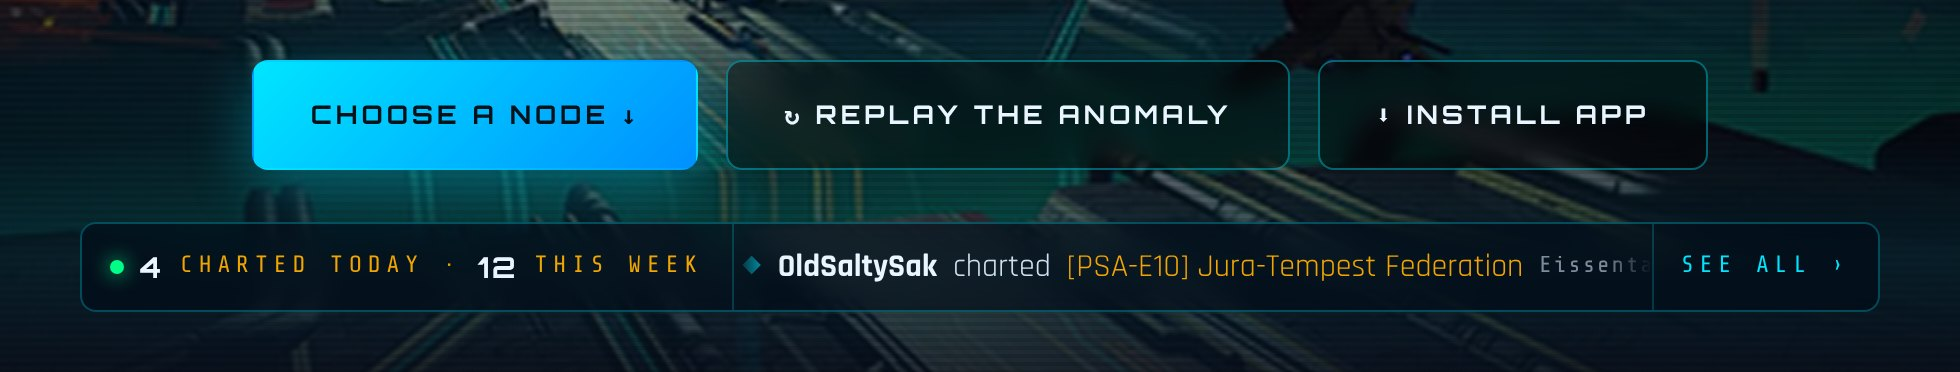
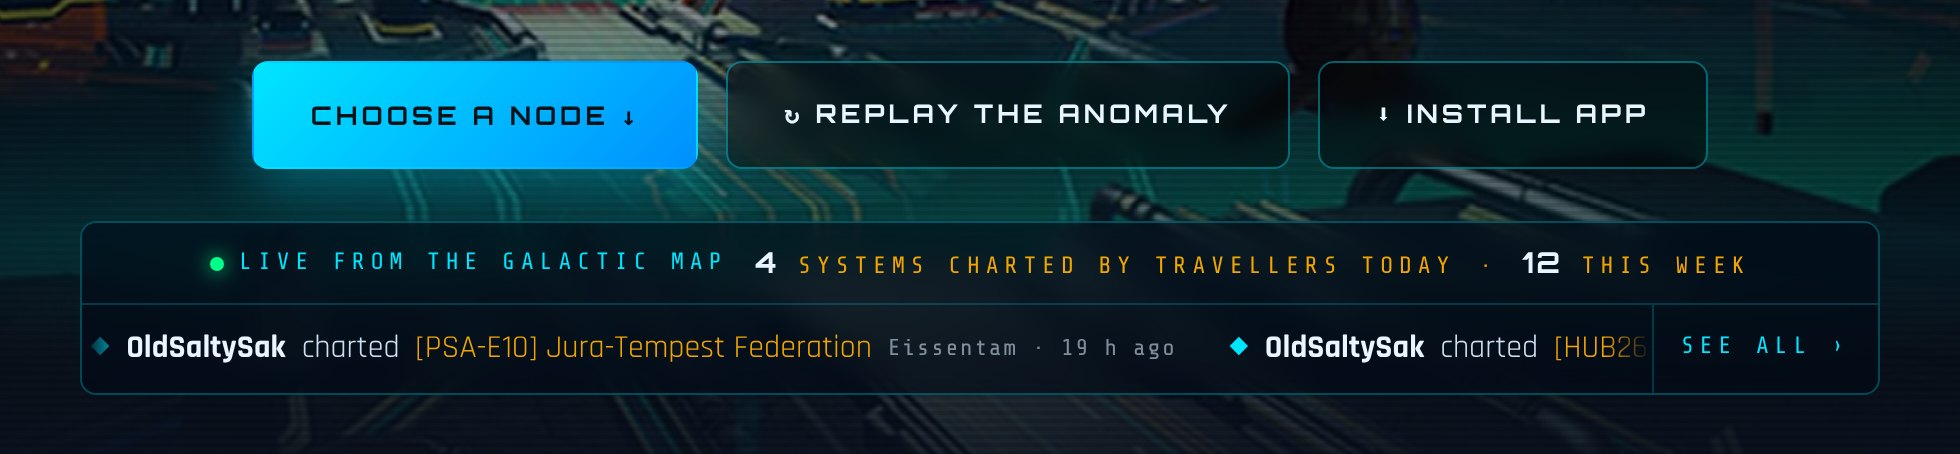
Ticker: say what's being counted ("Live from the Galactic Map · 4 systems charted by travellers today")
New visitors couldn't tell what "4 charted today" meant. The ticker now has a heading, LIVE FROM THE GALACTIC MAP, and the counts read "N systems charted by travellers today · N this week". On phones each count sits on its own line so nothing splits. README + screenshot updated.

Claude-Session: https://claude.ai/code/session_01RZyJje56RMWakjqPGsWmZq

diff --git a/ticker.css b/ticker.css
@@ -1,13 +1,17 @@
 /* No Man's Sky Hub — "Recently charted" ticker under the hero buttons (2026-10-17).
    Live from the Galactic Map. Uses the Hub's own tokens. See ticker.js. */
-.tick{width:min(900px,100%);display:grid;grid-template-columns:auto minmax(0,1fr) auto;align-items:stretch;
+.tick{width:min(900px,100%);display:grid;grid-template-columns:minmax(0,1fr) auto;align-items:stretch;
   margin-top:6px;background:rgba(0,10,22,.62);-webkit-backdrop-filter:blur(8px);backdrop-filter:blur(8px);
   border:1px solid rgba(0,229,255,.28);border-radius:8px;overflow:hidden;text-align:left}
 .tick[hidden]{display:none}
-.tick-lab{display:flex;align-items:center;gap:8px;padding:9px 14px;border-right:1px solid rgba(0,229,255,.2);
-  font-family:var(--f-mono);font-size:.74rem;letter-spacing:3px;color:var(--gold);white-space:nowrap}
-.tick-lab b{font-family:var(--f-display);font-weight:700;font-size:.9rem;letter-spacing:.1em;color:var(--white)}
-.tick-lab .dot{width:7px;height:7px}
+.tick-lab{grid-column:1/-1;display:flex;flex-wrap:wrap;justify-content:center;align-items:center;gap:4px 14px;
+  padding:8px 14px;border-bottom:1px solid rgba(0,229,255,.2);text-align:center;
+  font-family:var(--f-mono);font-size:.74rem;letter-spacing:3px;color:var(--gold)}
+.tl-k{display:inline-flex;align-items:center;gap:8px;color:var(--cyan)}
+.tl-k .dot{width:7px;height:7px}
+.tl-n{display:inline-flex;flex-wrap:wrap;justify-content:center;align-items:baseline;gap:2px 12px}
+.tl-p{white-space:nowrap}
+.tl-n b{font-family:var(--f-display);font-weight:700;font-size:.9rem;letter-spacing:.1em;color:var(--white)}
 .tick-view{position:relative;overflow:hidden;min-width:0;
   -webkit-mask-image:linear-gradient(90deg,transparent,#000 24px,#000 calc(100% - 24px),transparent);
           mask-image:linear-gradient(90deg,transparent,#000 24px,#000 calc(100% - 24px),transparent)}
@@ -26,8 +30,9 @@
   font-family:var(--f-mono);font-size:.74rem;letter-spacing:3px;color:var(--cyan);text-decoration:none;white-space:nowrap}
 .tick-all:hover,.tick-all:focus-visible{background:rgba(0,229,255,.1);outline:none}
 @media (max-width:560px){
-  .tick{grid-template-columns:minmax(0,1fr) auto}
-  .tick-lab{grid-column:1/-1;border-right:0;border-bottom:1px solid rgba(0,229,255,.2);justify-content:center;padding:7px 10px;font-size:.68rem;letter-spacing:2px}
+  .tick-lab{flex-direction:column;padding:7px 10px;font-size:.68rem;letter-spacing:2px}
+  .tl-sep{display:none}
+  .tl-n{flex-direction:column;align-items:center}
   .tick-item{font-size:.95rem}
   .tick-all{padding:9px 11px;letter-spacing:2px}
 }

diff --git a/ticker.js b/ticker.js
@@ -43,11 +43,23 @@
     if (!week.length) { box.hidden = true; return; }
 
     box.textContent = '';
+    // say plainly what is being counted: a first-time visitor doesn't know the map takes edits
     var lab = el('div', 'tick-lab');
-    lab.appendChild(el('span', 'dot'));
-    if (today) { lab.appendChild(el('b', null, String(today))); lab.appendChild(document.createTextNode(' CHARTED TODAY · ')); }
-    lab.appendChild(el('b', null, String(week.length)));
-    lab.appendChild(document.createTextNode(' THIS WEEK'));
+    var k = el('span', 'tl-k');
+    k.appendChild(el('span', 'dot'));
+    k.appendChild(document.createTextNode('LIVE FROM THE GALACTIC MAP'));
+    lab.appendChild(k);
+    var n = el('span', 'tl-n');
+    var sys = function (v) { return v === 1 ? ' SYSTEM' : ' SYSTEMS'; };
+    var part = function (num, words) { var p = el('span', 'tl-p'); p.appendChild(el('b', null, String(num))); p.appendChild(document.createTextNode(words)); return p; };
+    if (today) {
+      n.appendChild(part(today, sys(today) + ' CHARTED BY TRAVELLERS TODAY'));
+      n.appendChild(el('span', 'tl-sep', '·'));
+      n.appendChild(part(week.length, ' THIS WEEK'));
+    } else {
+      n.appendChild(part(week.length, sys(week.length) + ' CHARTED BY TRAVELLERS THIS WEEK'));
+    }
+    lab.appendChild(n);
     box.appendChild(lab);
 
     var view = el('div', 'tick-view');
@@ -63,7 +75,7 @@
     all.href = MAP + '/?recent=1'; all.target = '_blank'; all.rel = 'noopener';
     all.setAttribute('aria-label', 'See all recently charted systems on the Galactic Map');
     box.appendChild(all);
-    box.setAttribute('aria-label', (today ? today + ' systems charted today, ' : '') + week.length + ' this week on the Galactic Map');
+    box.setAttribute('aria-label', 'Live from the Galactic Map: ' + (today ? today + ' systems charted by travellers today, ' : '') + week.length + ' this week');
     box.hidden = false;
 
     // a steady, readable speed (~40px a second) whatever the number of items

diff --git a/README.md b/README.md
@@ -18,11 +18,11 @@ The front door to a family of free, fan-made *No Man's Sky* tools. One cinematic
 - **Traveller ID.** Save your name, platform, home galaxy and (optionally) your NMS friend code once. The sister sites read it from a small cookie on `.nomansskyhub.app` (nothing goes to a server): ATLAS greets you by name, the Galactic Map opens in your home galaxy on a first visit, the Weather planet card carries your name, and the Theme Pack's portal wallpaper fills in your name, galaxy and friend code. "Forget me" removes it.
 - **Expedition alerts.** A link under the expedition card opens the Weather station's alert settings for new-expedition and ends-in-24-hours notifications.
 - **Galactic Alliances.** A short guide to alliances from the Cosmos update, with the details (founding one, joining one, the three-alliance limit, alliance teleporters and how the rankings work) behind a **How alliances work** button. A **live top 5** leaderboard (re-checked every 15 minutes while the page is open) (in-game rank, members, stations and 24-hour changes) sits above it, courtesy of [Voyager's Haven](https://havenmap.online) by [u/IAmThe-Ekimo-1920](https://www.reddit.com/user/IAmThe-Ekimo-1920/); the full top 10 runs on the ATLAS alliance ticker.
-- **Recently charted ticker.** Under the hero buttons, a live strip shows how many systems travellers charted on the Galactic Map today and this week, then a slow tape of *name charted system · galaxy · time* links that fly straight to each system. It pauses on hover, keyboard focus or a finger press so a link is easy to tap, stands still for anyone who has reduced motion turned on, and **See all ›** opens the map's own Recently charted list. Read from the map's small `?recent=1` feed; only the names travellers chose to type are shown.
+- **Recently charted ticker.** Under the hero buttons, a live strip headed *Live from the Galactic Map* says how many systems travellers charted there today and this week, then a slow tape of *name charted system · galaxy · time* links that fly straight to each system. It pauses on hover, keyboard focus or a finger press so a link is easy to tap, stands still for anyone who has reduced motion turned on, and **See all ›** opens the map's own Recently charted list. Read from the map's small `?recent=1` feed; only the names travellers chose to type are shown.
 - **Built for phones too.** On a phone the page is about 40% shorter: a sticky jump bar (Tools · Dialer · Translate · Alliances), the six tool cards in one swipeable row, the dialer's explainer and saved addresses folded behind toggles, the translator opening its NMS-text panel when you tap in, the expedition card tucked into the hero, and a back-to-top button. Desktop is unchanged.
 - **Short links.** `nomansskyhub.app/atlas`, `/weather`, `/theme`, `/translator` and `/map` jump to each tool.
 
-![Recently charted ticker under the hero buttons: 4 charted today, 12 this week, OldSaltySak charted Jura-Tempest Federation](screenshots/06-charted-ticker.jpg)
+![Recently charted ticker under the hero buttons: Live from the Galactic Map, 4 systems charted by travellers today, 12 this week, OldSaltySak charted Jura-Tempest Federation](screenshots/06-charted-ticker.jpg)
 
 ![Six nodes, one network: image cards for every tool](screenshots/02-nodes.jpg)
 
